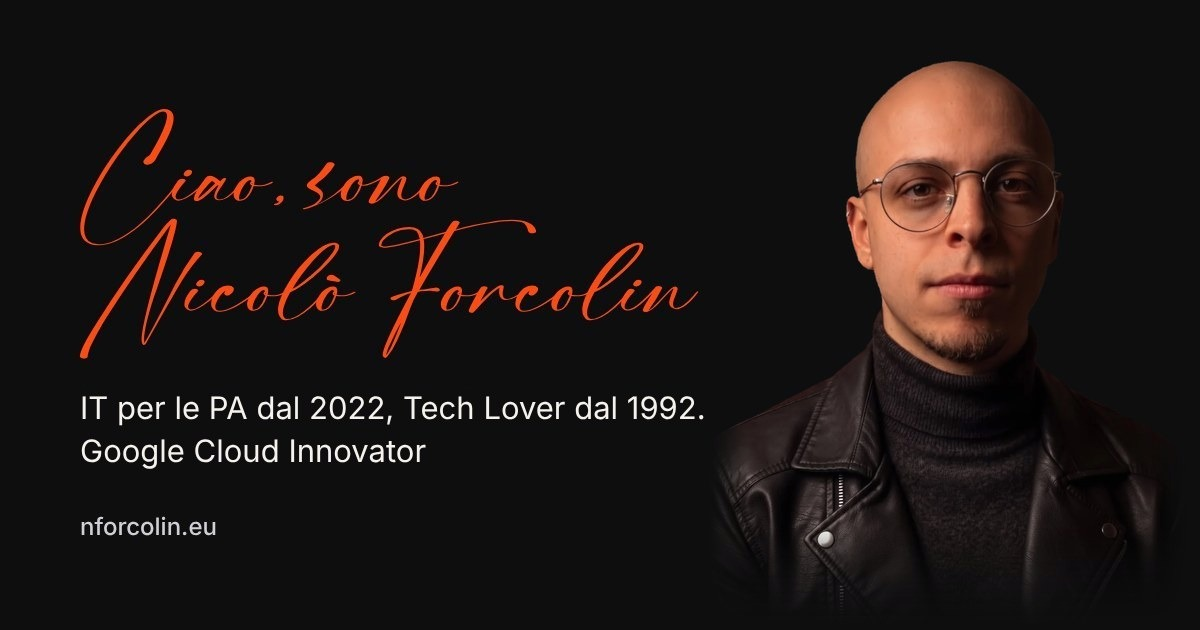
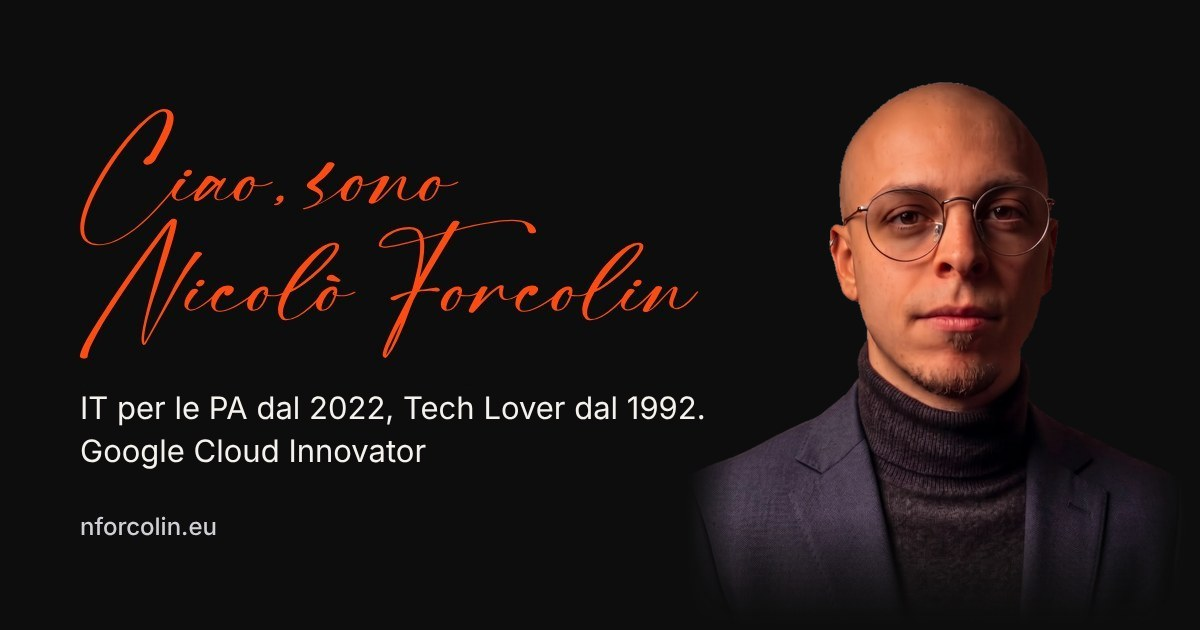
La foto in giacca ovunque: desktop, tablet, mobile e immagine di anteprima della home
Claude-Session: https://claude.ai/code/session_013V1PHsXmyXHJ8mUMRufPdc

Changed region(s): [[0.5858, 0.0905, 0.9558, 0.9048]]

diff --git a/tests/site-regression.test.js b/tests/site-regression.test.js
@@ -70,7 +70,7 @@ assert(home.includes('id="heroIntro"'), 'Hero intro paragraph missing');
 for (const language of ['it', 'en']) assert(dictionaries[language].includes('hero_intro:'), language + ': hero intro missing');
 assert(home.includes('data-i18n="skip_to_content"'), 'Skip link must be translated');
 assert(!home.includes('hero-cta-row'), 'The redundant hero links were removed');
-assert(home.includes('src="photo.webp?v=34"'), 'New portrait must be displayed');
+assert(home.includes('src="photo.webp?v=35"'), 'New portrait must be displayed');
 assert(home.includes('src="photo-entry-mobile.webp?v=2"') && fs.existsSync(path.join(root, 'photo-entry-mobile.webp')), 'The mobile entry screen uses the mobile portrait');
 assert(!home.includes('class="info-dialog"'), 'Project dialogs were replaced by pages');
 

diff --git a/home-editorial.css b/home-editorial.css
@@ -92,7 +92,6 @@ body[data-page="home"] .colophon{padding-bottom:24px}
  .hero-intro p:last-child{font-size:1rem;line-height:1.55}
  .hero-photo-frame{grid-row:1;align-self:stretch;width:100%;height:auto;min-height:0;max-height:none;margin:0 0 16px;overflow:hidden;position:relative;order:0}
  .hero-portrait{position:absolute;top:0;left:0;width:100%;max-width:none;height:100%;max-height:none;object-fit:contain;object-position:center bottom;mask-image:none;-webkit-mask-image:none}
- .hero-photo-frame picture{display:block}
  .home-stats-list{grid-template-columns:1fr;gap:0;padding:10px 0}
  .home-stats-list li{display:flex;align-items:baseline;gap:16px;padding:10px 0}
  .home-stats-list strong{min-width:64px;font-size:1.75rem;margin:0}

diff --git a/index.html b/index.html
@@ -98,10 +98,7 @@
 
     </div>
     <div class="hero-photo-frame">
-      <picture>
-        <source media="(max-width:700px)" srcset="photo-hero-mobile.webp?v=3" type="image/webp">
-        <img class="hero-portrait" id="avatarPhoto" src="photo.webp?v=34" alt="Nicolò Forcolin" width="1536" height="1830" fetchpriority="high">
-      </picture>
+      <img class="hero-portrait" id="avatarPhoto" src="photo.webp?v=35" alt="Nicolò Forcolin" width="1536" height="1750" fetchpriority="high">
     </div>
   </div>
 </section>

diff --git a/BRAND.md b/BRAND.md
@@ -71,7 +71,7 @@ Altri valori fissi: `#18181A` per lo sfondo della striscia dei progetti al passa
 - Due famiglie: il sans di sistema (Segoe UI e fallback) per tutto il sito, titoli compresi (pesi 600 e 700), e Destiny Signature solo per la firma NForcolin nella barra superiore. Niente caratteri con le grazie.
 - Cinque dimensioni: 16px (menu, etichette, date, note), 18px (testo), 22px (titoli delle voci), 24px (sottotitolo di pagina), 40px (titoli di sezione); il titolo di pagina scala fino a 76px.
 - Destiny Signature (licenza demo, uso non commerciale) solo come firma: "NForcolin" nella barra in alto (bianco). Il saluto della home conserva la firma originale: "Ciao, sono Nicolò Forcolin", in Destiny Signature e arancione.
-- Home (mockup approvato il 14 novembre 2026): pagina continua nella colonna editoriale. Hero compatta con "Ciao, sono Nicolò Forcolin" su due righe nel carattere della firma, tutto arancione, introduzione esistente e ritratto originale a colori. Su desktop la foto sta a destra, su mobile la prima schermata è solo il ritratto in giacca e dolcevita (photo-entry-mobile.webp), il nome in arancione nel carattere della firma e il segno d'ingresso (riga e pallino); un tocco porta alla presentazione, con il ritratto scontornato in giacca e dolcevita (photo-hero-mobile.webp) sopra il saluto (su desktop resta quello con il giubbotto di pelle), e la barra in alto resta sempre visibile. I tre link sotto la presentazione sono rimossi: le pagine restano accessibili dal menu e dalle sezioni, i contatti dal menu e da Collaboriamo. Niente barra fissa in basso. Su mobile la presentazione occupa almeno la prima schermata: numeri e sezioni seguono con lo scorrimento. Seguono i numeri 35+, 14 e 1 CEO affiancato (DABO); il contributo a Sprint Forward in Golden Boots fa parte della stessa voce del CEO. Poi Progetti (RAG in produzione e AI in locale come sperimentazione), Cosa faccio, Per chi, Il mio percorso e Collaboriamo. Riferimenti testuali a InfoCamere, DABO, IdeaGrip e Assicurazioni Generali, senza loghi. L’email, il pulsante copia, le risposte rapide (un solo comando apre tutte le domande e risposte), i social, il menu e le tre lingue restano funzionanti. Nessuna immagine o metrica inventata.
+- Home (mockup approvato il 14 novembre 2026): pagina continua nella colonna editoriale. Hero compatta con "Ciao, sono Nicolò Forcolin" su due righe nel carattere della firma, tutto arancione, introduzione esistente e ritratto originale a colori. Su desktop la foto sta a destra, su mobile la prima schermata è solo il ritratto in giacca e dolcevita (photo-entry-mobile.webp), il nome in arancione nel carattere della firma e il segno d'ingresso (riga e pallino); un tocco porta alla presentazione, con il ritratto in giacca e dolcevita (photo.webp, lo stesso su tutti gli schermi) sopra il saluto, e la barra in alto resta sempre visibile. I tre link sotto la presentazione sono rimossi: le pagine restano accessibili dal menu e dalle sezioni, i contatti dal menu e da Collaboriamo. Niente barra fissa in basso. Su mobile la presentazione occupa almeno la prima schermata: numeri e sezioni seguono con lo scorrimento. Seguono i numeri 35+, 14 e 1 CEO affiancato (DABO); il contributo a Sprint Forward in Golden Boots fa parte della stessa voce del CEO. Poi Progetti (RAG in produzione e AI in locale come sperimentazione), Cosa faccio, Per chi, Il mio percorso e Collaboriamo. Riferimenti testuali a InfoCamere, DABO, IdeaGrip e Assicurazioni Generali, senza loghi. L’email, il pulsante copia, le risposte rapide (un solo comando apre tutte le domande e risposte), i social, il menu e le tre lingue restano funzionanti. Nessuna immagine o metrica inventata.
 - "Contattami" a fine pagina: testo nel carattere dei titoli, chiaro, con sottolineatura arancione; un solo invito per schermata.
 - Pagina Hobby: musica, audiofilia, fotografia, orologi, libri e animali, con i link ai profili personali; testi solo con ciò che l'autore ha detto, nessun anno o dato non fornito.
 - Prima i casi studio RAG e Local AI, poi bio e percorso.
